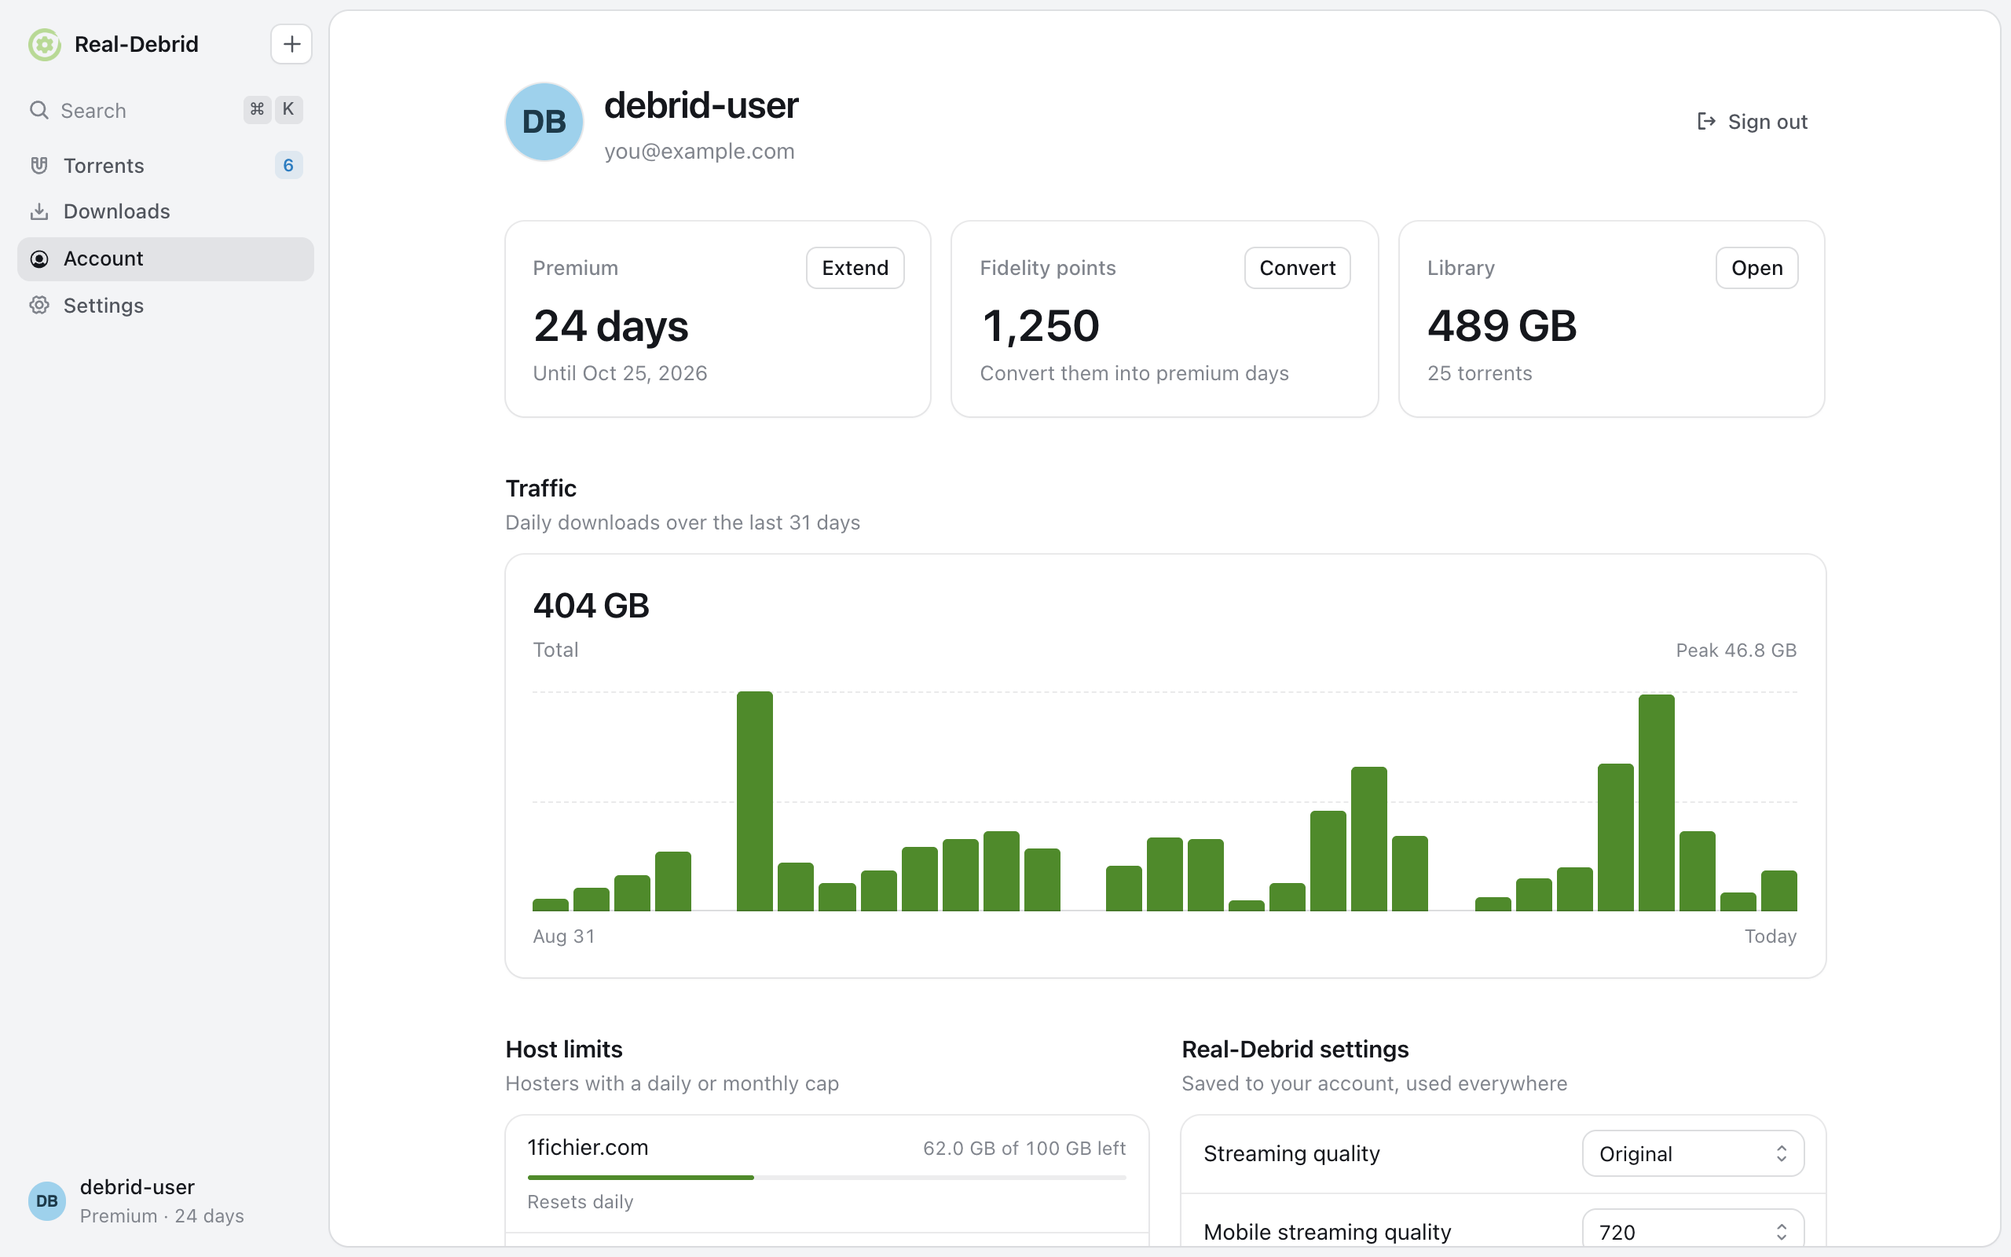
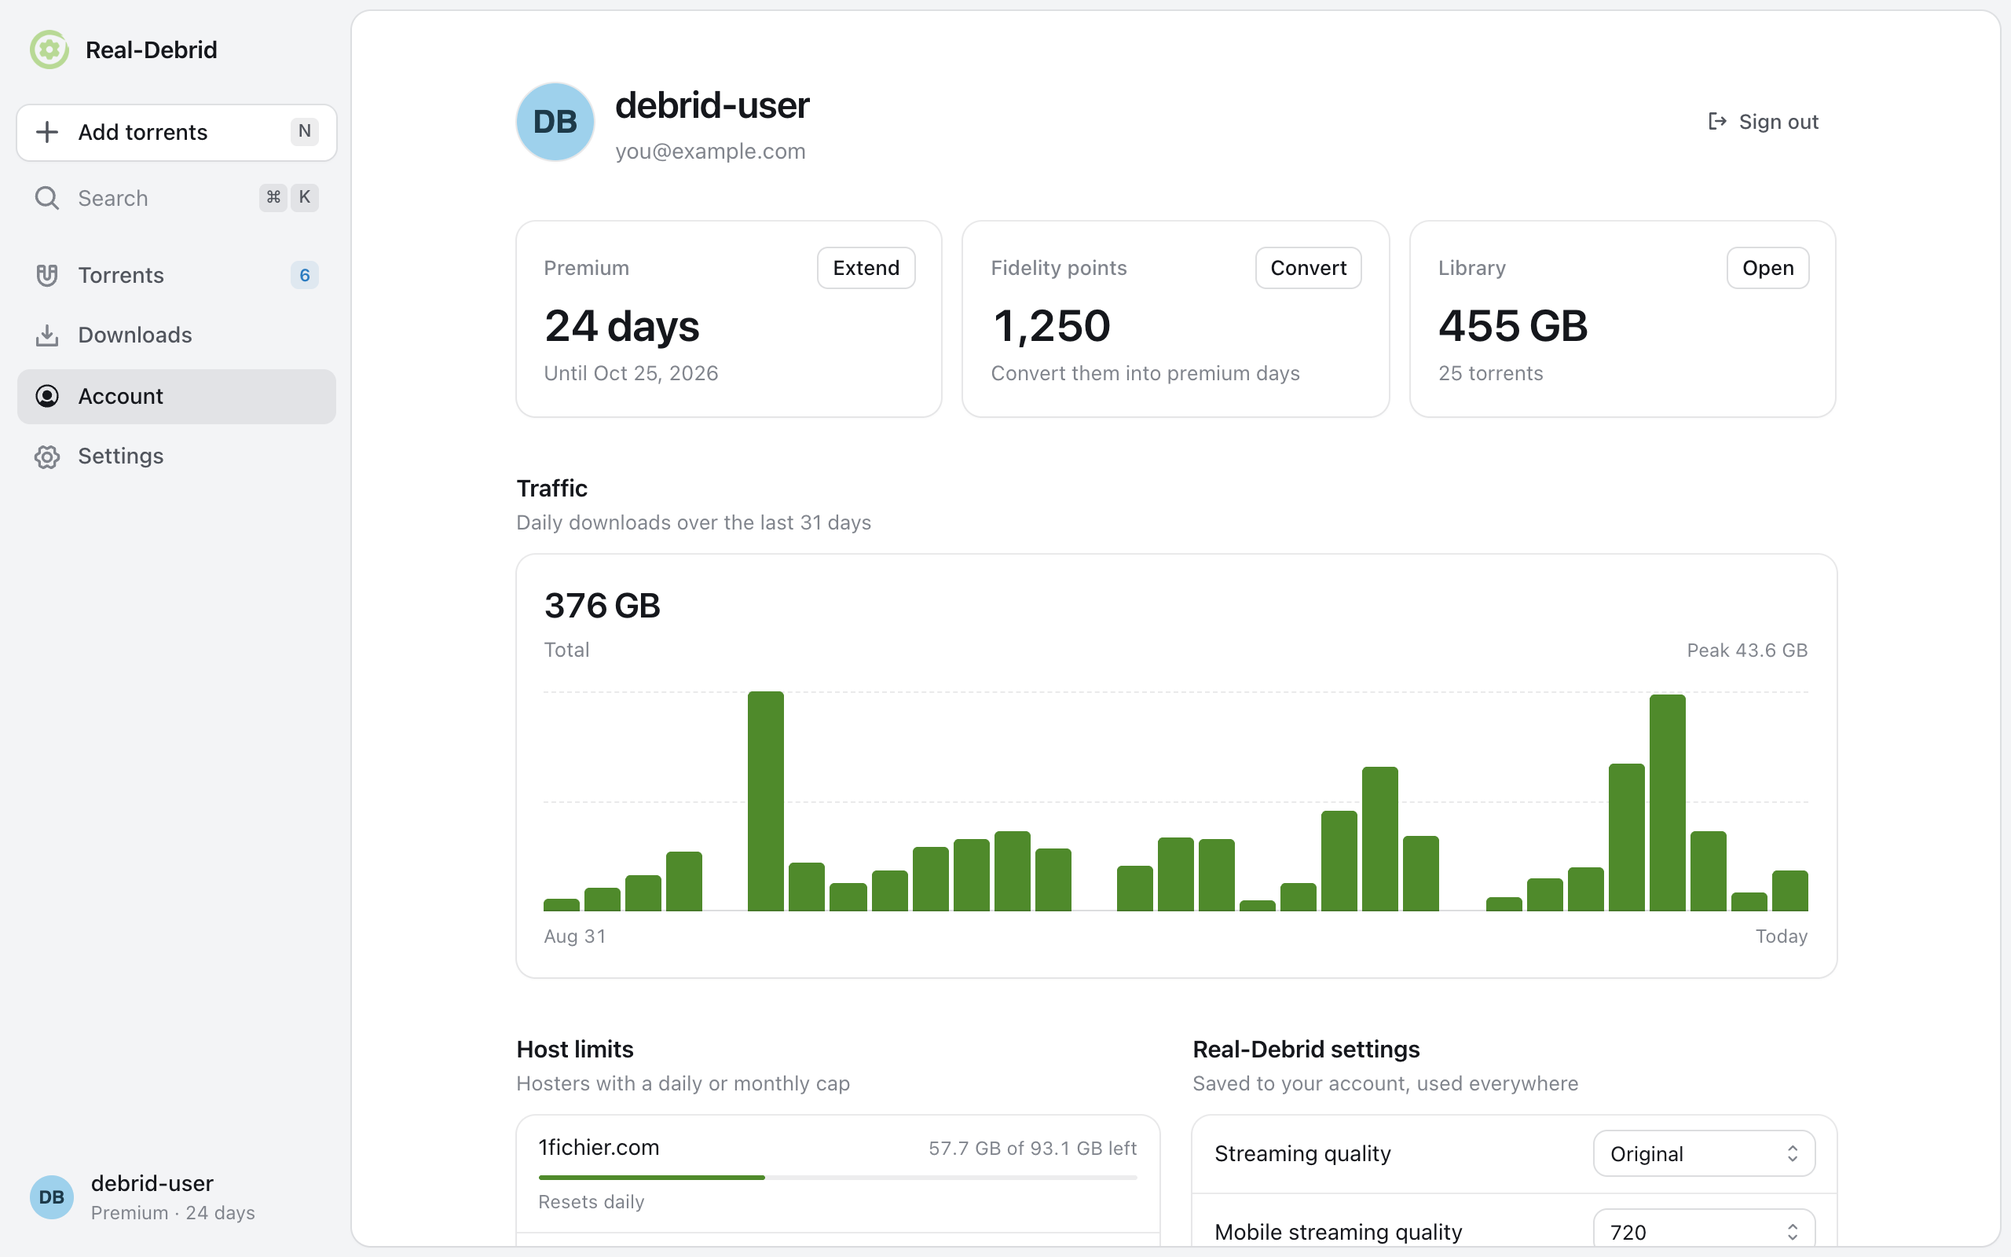
Fetch torrent links on demand and match Real-Debrid sizes

diff --git a/src/manager/sidebar.tsx b/src/manager/sidebar.tsx
@@ -10,7 +10,7 @@ import clsx from "clsx";
 import type { ReactNode } from "react";
 
 import { Logo } from "@/components/logo";
-import { IconButton, Kbd } from "@/components/ui/button";
+import { Kbd } from "@/components/ui/button";
 import { useSettings } from "@/hooks/use-settings";
 import { daysLeft, isActive } from "@/lib/format";
 import { useLibrary, useUser } from "@/lib/queries";
@@ -42,26 +42,28 @@ export function Sidebar({
   const days = user ? daysLeft(user.premium) : 0;
 
   return (
-    <aside className="flex w-60 shrink-0 flex-col px-3 pt-3 pb-3">
-      <div className="flex h-10 items-center gap-2.5 pr-0.5 pl-2">
-        <Logo className="size-6" />
-        <span className="flex-1 text-[14px] font-semibold tracking-[-0.01em]">Real-Debrid</span>
-        <IconButton
-          label="Add torrents or links"
-          shortcut="N"
-          onClick={onAdd}
-          className="bg-surface text-fg-2! shadow-panel hover:bg-subtle dark:hover:bg-raised"
-        >
-          <PlusIcon />
-        </IconButton>
+    <aside className="flex w-64 shrink-0 flex-col px-3 pt-4 pb-3">
+      <div className="flex h-10 items-center gap-3 px-2.5">
+        <Logo className="size-7" />
+        <span className="text-[15px] font-semibold tracking-[-0.01em]">Real-Debrid</span>
       </div>
 
       <button
         type="button"
-        onClick={onSearch}
-        className="press mt-3 flex h-8 items-center gap-2 rounded-[8px] px-2 text-[13px] text-fg-3 hover:bg-fill hover:text-fg-2"
+        onClick={onAdd}
+        className="press mt-5 flex h-10 items-center gap-3 rounded-[8px] bg-surface px-3 text-[14px] font-medium text-fg shadow-panel hover:bg-subtle dark:hover:bg-raised"
       >
-        <MagnifyingGlassIcon className="size-4" />
+        <PlusIcon className="size-[18px] text-fg-2" />
+        Add torrents
+        <Kbd className="ml-auto">N</Kbd>
+      </button>
+
+      <button
+        type="button"
+        onClick={onSearch}
+        className="press mt-2 flex h-10 items-center gap-3 rounded-[8px] px-3 text-[14px] text-fg-3 hover:bg-fill hover:text-fg-2"
+      >
+        <MagnifyingGlassIcon className="size-[18px]" />
         Search
         <span className="ml-auto flex gap-0.5">
           <Kbd>⌘</Kbd>
@@ -69,7 +71,7 @@ export function Sidebar({
         </span>
       </button>
 
-      <nav className="mt-2 flex flex-col gap-0.5">
+      <nav className="mt-4 flex flex-col gap-1">
         {ITEMS.map(({ id, label, icon: Icon }) => {
           const on = section === id;
           return (
@@ -79,11 +81,11 @@ export function Sidebar({
               aria-current={on ? "page" : undefined}
               onClick={() => navigate(`/${id}`)}
               className={clsx(
-                "press flex h-8 items-center gap-2.5 rounded-[8px] px-2 text-[13px] font-medium",
+                "press flex h-10 items-center gap-3 rounded-[8px] px-3 text-[14px] font-medium",
                 on ? "bg-fill-strong text-fg" : "text-fg-2 hover:bg-fill hover:text-fg",
               )}
             >
-              <Icon className={clsx("size-4", on ? "text-fg" : "text-fg-3")} weight={on ? "fill" : "bold"} />
+              <Icon className={clsx("size-[18px]", on ? "text-fg" : "text-fg-3")} weight={on ? "fill" : "bold"} />
               {label}
               {id === "torrents" && active > 0 && (
                 <span className="tabular ml-auto flex h-5 min-w-5 items-center justify-center rounded-[5px] bg-info-soft px-1.5 text-[11px] font-semibold text-info">
@@ -111,11 +113,11 @@ export function Sidebar({
           <button
             type="button"
             onClick={() => navigate("/account")}
-            className="press flex w-full items-center gap-2.5 rounded-[8px] p-2 text-left hover:bg-fill"
+            className="press flex w-full items-center gap-3 rounded-[8px] p-2.5 text-left hover:bg-fill"
           >
-            <img src={user.avatar} alt="" className="size-7 rounded-full bg-fill" />
+            <img src={user.avatar} alt="" className="size-8 rounded-full bg-fill" />
             <span className="min-w-0 flex-1">
-              <span className="block truncate text-[13px] font-medium">{user.username}</span>
+              <span className="block truncate text-[14px] font-medium">{user.username}</span>
               <span className="tabular block truncate text-[12px] text-fg-3">
                 {user.type === "premium" ? `Premium · ${days} days` : "Free account"}
               </span>

diff --git a/src/manager/torrents/view.tsx b/src/manager/torrents/view.tsx
@@ -167,18 +167,26 @@ export function TorrentsView({ detailId, onAdd }: { detailId: string | null; onA
   };
 
   const rowMenu = (torrent: Torrent): MenuEntry[] => {
-    const ready = torrent.status === "downloaded" && torrent.links.length > 0;
+    const ready = torrent.status === "downloaded";
     return [
       ...(ready
         ? [
-            { label: "Download", icon: <DownloadSimpleIcon />, onSelect: () => actions.download(torrent.links) },
+            {
+              label: "Download",
+              icon: <DownloadSimpleIcon />,
+              onSelect: () => actions.torrents([torrent], "download"),
+            },
             {
               label: "Stream",
               icon: <PlayIcon />,
-              onSelect: () => torrent.links[0] && actions.stream(torrent.links[0]),
+              onSelect: () => actions.torrents([torrent], "stream"),
             },
-            { label: "Copy links", icon: <CopyIcon />, onSelect: () => actions.copy(torrent.links) },
-            { label: "Send to aria2", icon: <PaperPlaneTiltIcon />, onSelect: () => actions.aria2(torrent.links) },
+            { label: "Copy links", icon: <CopyIcon />, onSelect: () => actions.torrents([torrent], "copy") },
+            {
+              label: "Send to aria2",
+              icon: <PaperPlaneTiltIcon />,
+              onSelect: () => actions.torrents([torrent], "aria2"),
+            },
             "separator" as const,
           ]
         : []),
@@ -193,7 +201,7 @@ export function TorrentsView({ detailId, onAdd }: { detailId: string | null; onA
     ];
   };
 
-  const readyLinks = selected.flatMap((t) => (t.status === "downloaded" ? t.links : []));
+  const readySelected = selected.filter((t) => t.status === "downloaded");
   const allSelected = visible.length > 0 && selection.count === visible.length;
 
   return (
@@ -368,9 +376,9 @@ export function TorrentsView({ detailId, onAdd }: { detailId: string | null; onA
                             setCursor(item.index);
                             navigate(`/torrents/${torrent.id}`);
                           },
-                          download: () => actions.download(torrent.links),
-                          copy: () => actions.copy(torrent.links),
-                          stream: () => torrent.links[0] && actions.stream(torrent.links[0]),
+                          download: () => actions.torrents([torrent], "download"),
+                          copy: () => actions.torrents([torrent], "copy"),
+                          stream: () => actions.torrents([torrent], "stream"),
                           reinsert: () => reinsert(torrent),
                           chooseFiles: () => setPicking(torrent.id),
                         }}
@@ -393,8 +401,8 @@ export function TorrentsView({ detailId, onAdd }: { detailId: string | null; onA
               size="sm"
               variant="ghost"
               icon={<DownloadSimpleIcon />}
-              disabled={!readyLinks.length}
-              onClick={() => actions.download(readyLinks)}
+              disabled={!readySelected.length}
+              onClick={() => actions.torrents(readySelected, "download")}
             >
               Download
             </Button>
@@ -402,8 +410,8 @@ export function TorrentsView({ detailId, onAdd }: { detailId: string | null; onA
               size="sm"
               variant="ghost"
               icon={<CopyIcon />}
-              disabled={!readyLinks.length}
-              onClick={() => actions.copy(readyLinks)}
+              disabled={!readySelected.length}
+              onClick={() => actions.torrents(readySelected, "copy")}
             >
               Copy links
             </Button>

diff --git a/e2e/screenshots.ts b/e2e/screenshots.ts
@@ -173,6 +173,12 @@ async function signedInShots(context: BrowserContext, worker: Worker, base: stri
   await list.keyboard.press("Escape");
   await list.getByRole("button", { name: "Start download" }).waitFor({ state: "detached" });
 
+  await list.keyboard.press("n");
+  await list.getByPlaceholder("Paste magnets, hashes or hoster links").waitFor();
+  await shoot(list, `manager-add-dialog-${theme}`);
+  await list.keyboard.press("Escape");
+  await list.getByPlaceholder("Paste magnets, hashes or hoster links").waitFor({ state: "detached" });
+
   await list.keyboard.press("ControlOrMeta+k");
   await list.getByPlaceholder("Search torrents or jump to…").waitFor();
   await shoot(list, `manager-command-palette-${theme}`);
@@ -220,6 +226,23 @@ async function smokeChecks(context: BrowserContext, worker: Worker, base: string
     await page.getByRole("button", { name: "Clear selection" }).click();
     await page.getByText("2 selected").waitFor({ state: "detached", timeout: 3000 });
     return "bar reads '2 selected', 2 rows aria-selected, clear button removes it";
+  });
+
+  await check("ready torrents get quick actions even when the list has no links", async () => {
+    const row = rows.filter({ hasText: "Severance.S02.1080p" });
+    await row.getByRole("button", { name: "Download" }).waitFor({ timeout: 3000 });
+    await row.getByRole("checkbox", { name: "Select", exact: true }).click();
+    const bar = page.getByRole("button", { name: "Download", exact: true }).last();
+    assert(await bar.isEnabled(), "selection bar Download is disabled for a ready torrent");
+    const before = log.handled.length;
+    await bar.click();
+    const deadline = Date.now() + 3000;
+    while (!log.handled.slice(before).some((entry) => entry.path.startsWith("/torrents/info/"))) {
+      assert(Date.now() < deadline, "Download didn't fetch links from torrent info");
+      await new Promise((resolve) => setTimeout(resolve, 100));
+    }
+    await page.getByRole("button", { name: "Clear selection" }).click();
+    return "row shows Download; selection bar Download enabled and fetches links from /torrents/info";
   });
 
   await check("search filters the list", async () => {

diff --git a/src/hooks/use-actions.ts b/src/hooks/use-actions.ts
@@ -3,9 +3,9 @@ import { browser } from "wxt/browser";
 
 import { managerUrl } from "@/lib/pages";
 import { downloadInBrowser, externalPlayerUrl, sendToAria2 } from "@/lib/outputs";
-import { unrestrictLink } from "@/lib/rd/api";
+import { getTorrent, unrestrictLink } from "@/lib/rd/api";
 import { errorMessage } from "@/lib/rd/errors";
-import type { Unrestricted } from "@/lib/rd/types";
+import type { Torrent, Unrestricted } from "@/lib/rd/types";
 import type { PrimaryAction } from "@/lib/storage";
 
 import { useSettings } from "./use-settings";
@@ -19,6 +19,15 @@ async function toDirect(urls: string[]): Promise<string[]> {
   return direct;
 }
 
+/** The torrent list can come back with empty links; the info endpoint always has them. */
+async function torrentLinks(torrents: Torrent[]): Promise<string[]> {
+  const links: string[] = [];
+  for (const torrent of torrents) {
+    links.push(...(torrent.links.length ? torrent.links : (await getTorrent(torrent.id)).links));
+  }
+  return links;
+}
+
 export interface Actions {
   download: (urls: string[]) => void;
   copy: (urls: string[]) => void;
@@ -26,6 +35,7 @@ export interface Actions {
   stream: (url: string, downloadId?: string) => void;
   primary: (urls: string[]) => void;
   run: (action: PrimaryAction, urls: string[]) => void;
+  torrents: (torrents: Torrent[], action: PrimaryAction) => void;
 }
 
 export function useActions(): Actions {
@@ -80,5 +90,11 @@ export function useActions(): Actions {
     else download(urls);
   };
 
-  return { download, copy, aria2, stream, run, primary: (urls) => run(settings.primaryAction, urls) };
+  const torrents = (list: Torrent[], action: PrimaryAction): void => {
+    torrentLinks(list)
+      .then((urls) => run(action, urls))
+      .catch((error: unknown) => toast.error(errorMessage(error)));
+  };
+
+  return { download, copy, aria2, stream, run, torrents, primary: (urls) => run(settings.primaryAction, urls) };
 }

diff --git a/e2e/fixtures.ts b/e2e/fixtures.ts
@@ -484,7 +484,10 @@ export function handleRd(log: MockLog) {
       if (method === "GET" && path === "/user") return json(route, user);
       if (method === "GET" && path === "/torrents") {
         const filter = url.searchParams.get("filter");
-        return paged(route, filter === "active" ? activeTorrents : torrents, url);
+        if (filter === "active") return paged(route, activeTorrents, url);
+        // A real account's full-library page came back with empty links; the UI must fetch them from info.
+        const fullLibrary = Number(url.searchParams.get("limit") ?? 100) >= 1000;
+        return paged(route, fullLibrary ? torrents.map((t) => ({ ...t, links: [] })) : torrents, url);
       }
       if (method === "GET" && path === "/torrents/activeCount")
         return json(route, { nb: activeTorrents.length, limit: 35 });
@@ -500,6 +503,22 @@ export function handleRd(log: MockLog) {
             });
       }
       if (method === "GET" && path === "/downloads") return paged(route, downloads, url);
+      if (method === "POST" && path === "/unrestrict/link") {
+        const link = new URLSearchParams(request.postData() ?? "").get("link") ?? "";
+        const id = link.split("/").pop() ?? "LINK";
+        return json(route, {
+          id,
+          filename: `${id}.mkv`,
+          mimeType: "video/x-matroska",
+          filesize: 1024 ** 3,
+          link,
+          host: "real-debrid.com",
+          chunks: 32,
+          crc: 1,
+          download: `https://download.real-debrid.com/d/${id}/file.mkv`,
+          streamable: 1,
+        });
+      }
       if (method === "GET" && path === "/traffic") return json(route, traffic);
       if (method === "GET" && path === "/traffic/details")
         return json(route, trafficDetails(url.searchParams.get("start"), url.searchParams.get("end")));

diff --git a/src/popup/recent-torrents.tsx b/src/popup/recent-torrents.tsx
@@ -67,7 +67,7 @@ function TorrentRow({ torrent, onChooseFiles }: { torrent: Torrent; onChooseFile
   const actions = useActions();
   const reinsert = useReinsert();
   const queryClient = useQueryClient();
-  const ready = torrent.status === "downloaded" && torrent.links.length > 0;
+  const ready = torrent.status === "downloaded";
 
   const open = (): void => {
     browser.tabs.create({ url: managerUrl(`/torrents/${torrent.id}`) }).catch(console.error);
@@ -101,7 +101,7 @@ function TorrentRow({ torrent, onChooseFiles }: { torrent: Torrent; onChooseFile
           </IconButton>
         )}
         {ready && (
-          <IconButton label="Download" onClick={() => actions.download(torrent.links)}>
+          <IconButton label="Download" onClick={() => actions.torrents([torrent], "download")}>
             <DownloadSimpleIcon />
           </IconButton>
         )}
@@ -120,9 +120,9 @@ function TorrentRow({ torrent, onChooseFiles }: { torrent: Torrent; onChooseFile
                   {
                     label: "Stream",
                     icon: <PlayIcon />,
-                    onSelect: () => torrent.links[0] && actions.stream(torrent.links[0]),
+                    onSelect: () => actions.torrents([torrent], "stream"),
                   },
-                  { label: "Copy links", icon: <CopyIcon />, onSelect: () => actions.copy(torrent.links) },
+                  { label: "Copy links", icon: <CopyIcon />, onSelect: () => actions.torrents([torrent], "copy") },
                 ]
               : []),
             ...(isFailed(torrent.status) || ready

diff --git a/src/lib/format.ts b/src/lib/format.ts
@@ -2,11 +2,13 @@ import type { TorrentStatus } from "./rd/types";
 
 const UNITS = ["B", "KB", "MB", "GB", "TB"];
 
+/** Powers of 1024 with GB-style labels, matching the Real-Debrid website. */
 export function formatBytes(bytes: number): string {
   if (!bytes) return "0 B";
-  const exponent = Math.min(UNITS.length - 1, Math.floor(Math.log(bytes) / Math.log(1000)));
-  const value = bytes / 1000 ** exponent;
-  return `${value >= 100 || exponent === 0 ? Math.round(value) : value.toFixed(1)} ${UNITS[exponent]}`;
+  const exponent = Math.min(UNITS.length - 1, Math.floor(Math.log(bytes) / Math.log(1024)));
+  const value = bytes / 1024 ** exponent;
+  const digits = exponent === 0 || value >= 100 ? 0 : value >= 10 ? 1 : 2;
+  return `${value.toFixed(digits)} ${UNITS[exponent]}`;
 }
 
 export function formatSpeed(bytesPerSecond: number): string {

diff --git a/src/lib/__tests__/format.test.ts b/src/lib/__tests__/format.test.ts
@@ -1,0 +1,20 @@
+import { describe, expect, it } from "vitest";
+
+import { formatBytes } from "../format";
+
+describe("formatBytes", () => {
+  it("matches Real-Debrid's 1024-based sizes", () => {
+    expect(formatBytes(2_620_000_000)).toBe("2.44 GB");
+    expect(formatBytes(1_130_000_000_000)).toBe("1.03 TB");
+  });
+
+  it("drops decimals as values grow", () => {
+    expect(formatBytes(62.5 * 1024 ** 3)).toBe("62.5 GB");
+    expect(formatBytes(129.3 * 1024 ** 3)).toBe("129 GB");
+    expect(formatBytes(512)).toBe("512 B");
+  });
+
+  it("handles zero", () => {
+    expect(formatBytes(0)).toBe("0 B");
+  });
+});

diff --git a/src/components/ui/dialog.tsx b/src/components/ui/dialog.tsx
@@ -46,7 +46,7 @@ export function Dialog({
               <XIcon className="size-4" />
             </BaseDialog.Close>
           </div>
-          {children && <div className="min-h-0 flex-1 overflow-y-auto px-5 pb-5">{children}</div>}
+          {children && <div className="min-h-0 flex-1 overflow-y-auto px-5 pt-1 pb-5">{children}</div>}
           {footer && (
             <div className="flex items-center justify-end gap-2 border-t border-border bg-subtle px-5 py-3 dark:bg-surface">
               {footer}

diff --git a/src/manager/torrents/row.tsx b/src/manager/torrents/row.tsx
@@ -55,8 +55,8 @@ export function TorrentRow({
   menu: MenuEntry[];
   actions: RowActions;
 }): ReactNode {
-  const ready = torrent.status === "downloaded" && torrent.links.length > 0;
-  const streamable = ready && torrent.links.length === 1 && isVideo(torrent.filename);
+  const ready = torrent.status === "downloaded";
+  const streamable = ready && torrent.links.length <= 1 && isVideo(torrent.filename);
   return (
     <div
       role="row"

diff --git a/src/styles/app.css b/src/styles/app.css
@@ -144,9 +144,9 @@
     font-variant-numeric: tabular-nums;
   }
 
-  /* Lists stay full-bleed (lines, hover) but their content caps at 1120px on wide windows. */
+  /* Lists stay full-bleed (lines, hover) but their content caps at 960px, like Account on wide windows. */
   .gutter {
-    padding-inline: max(20px, calc((100% - 1120px) / 2));
+    padding-inline: max(20px, calc((100% - 960px) / 2));
   }
 
   .press {
